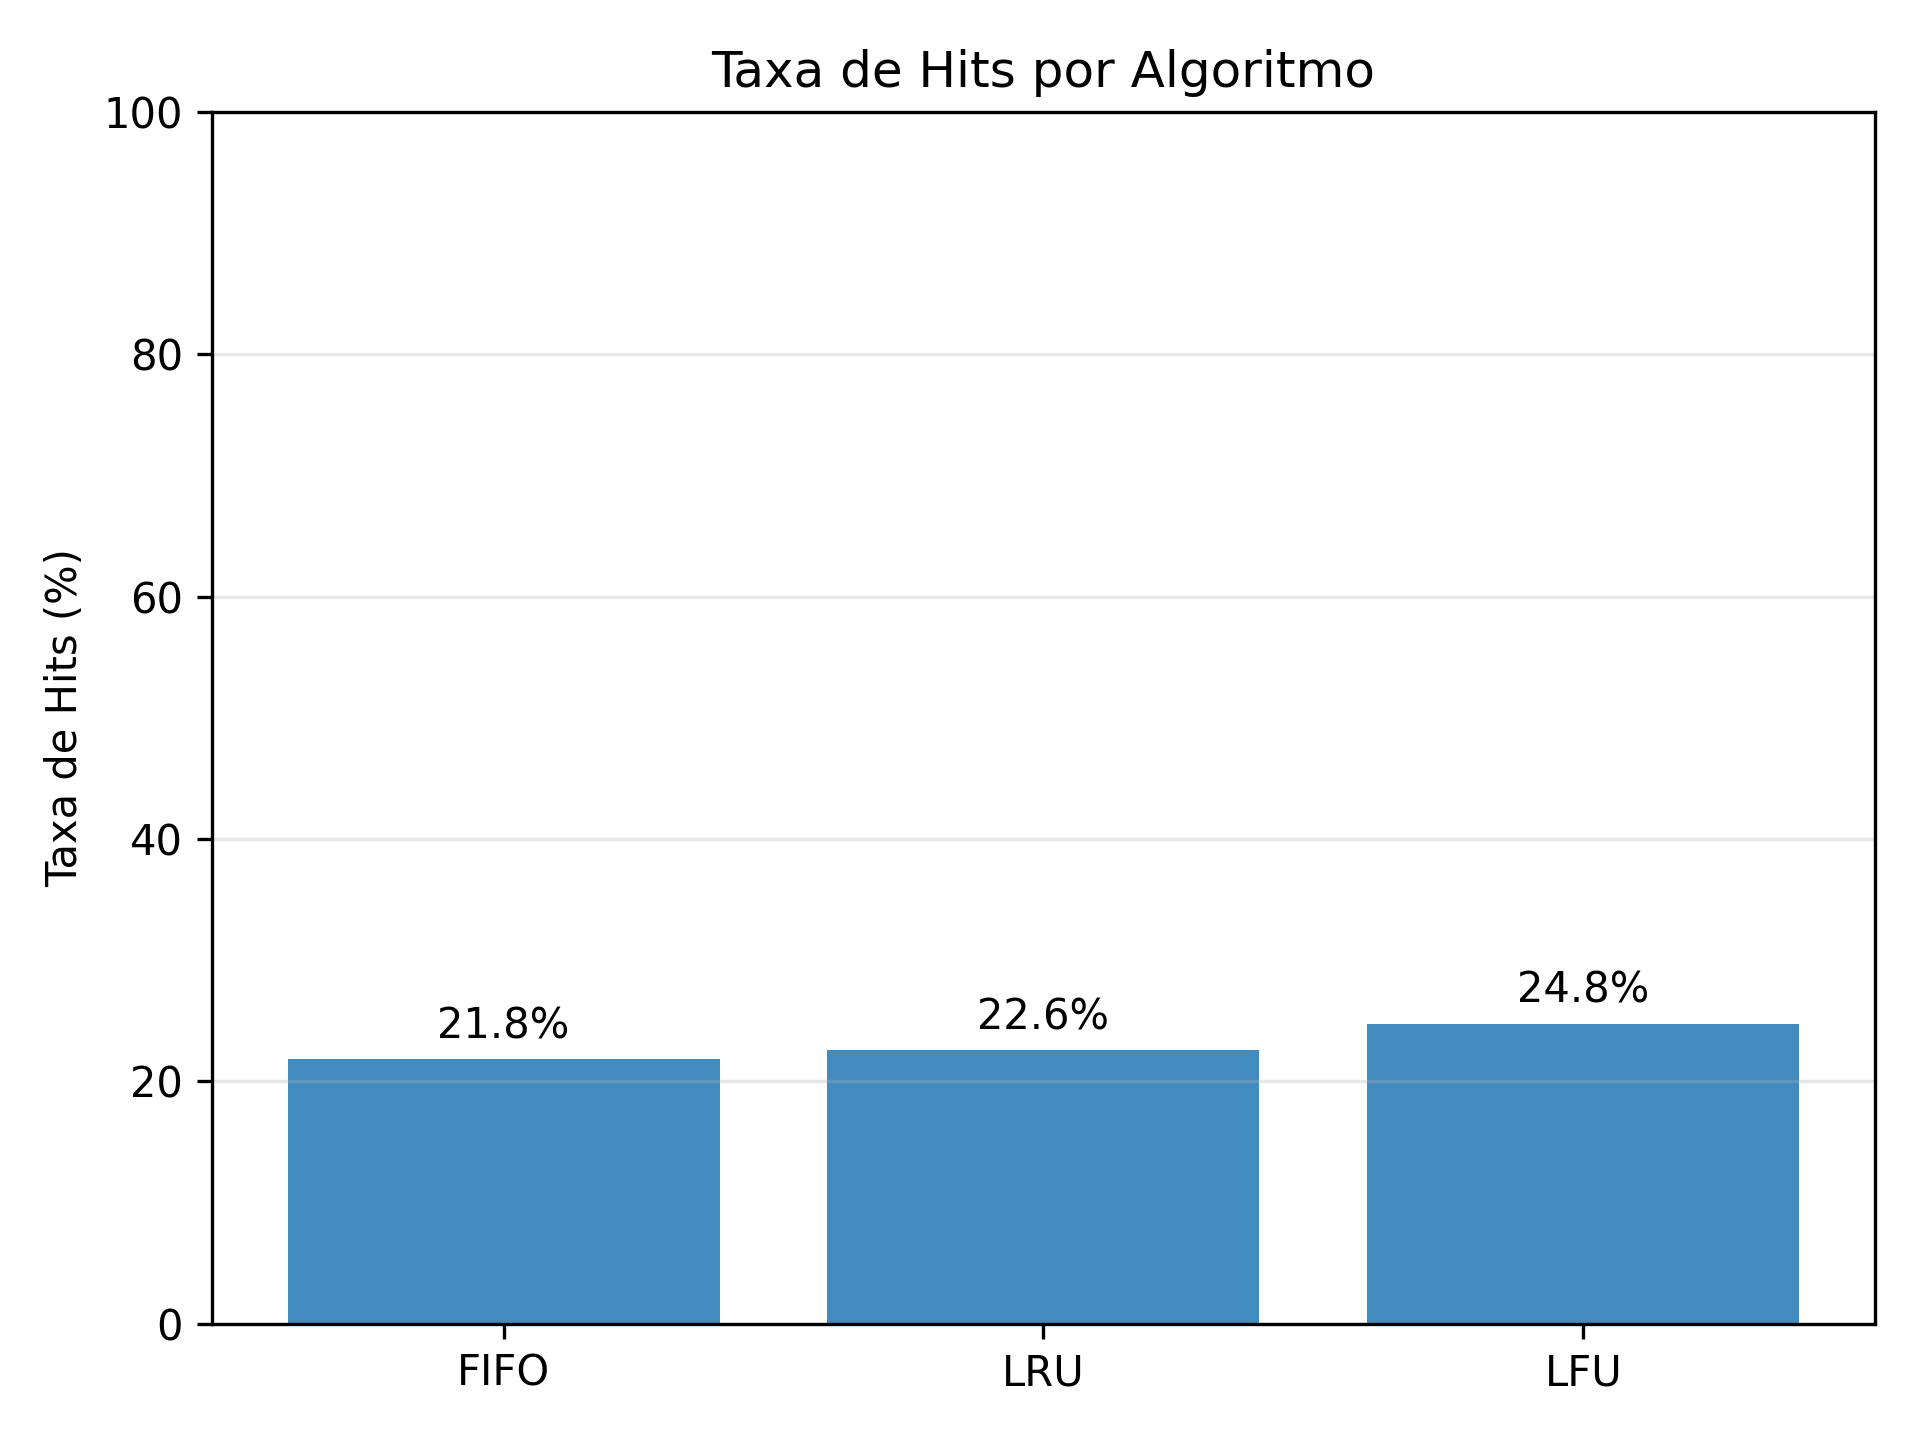
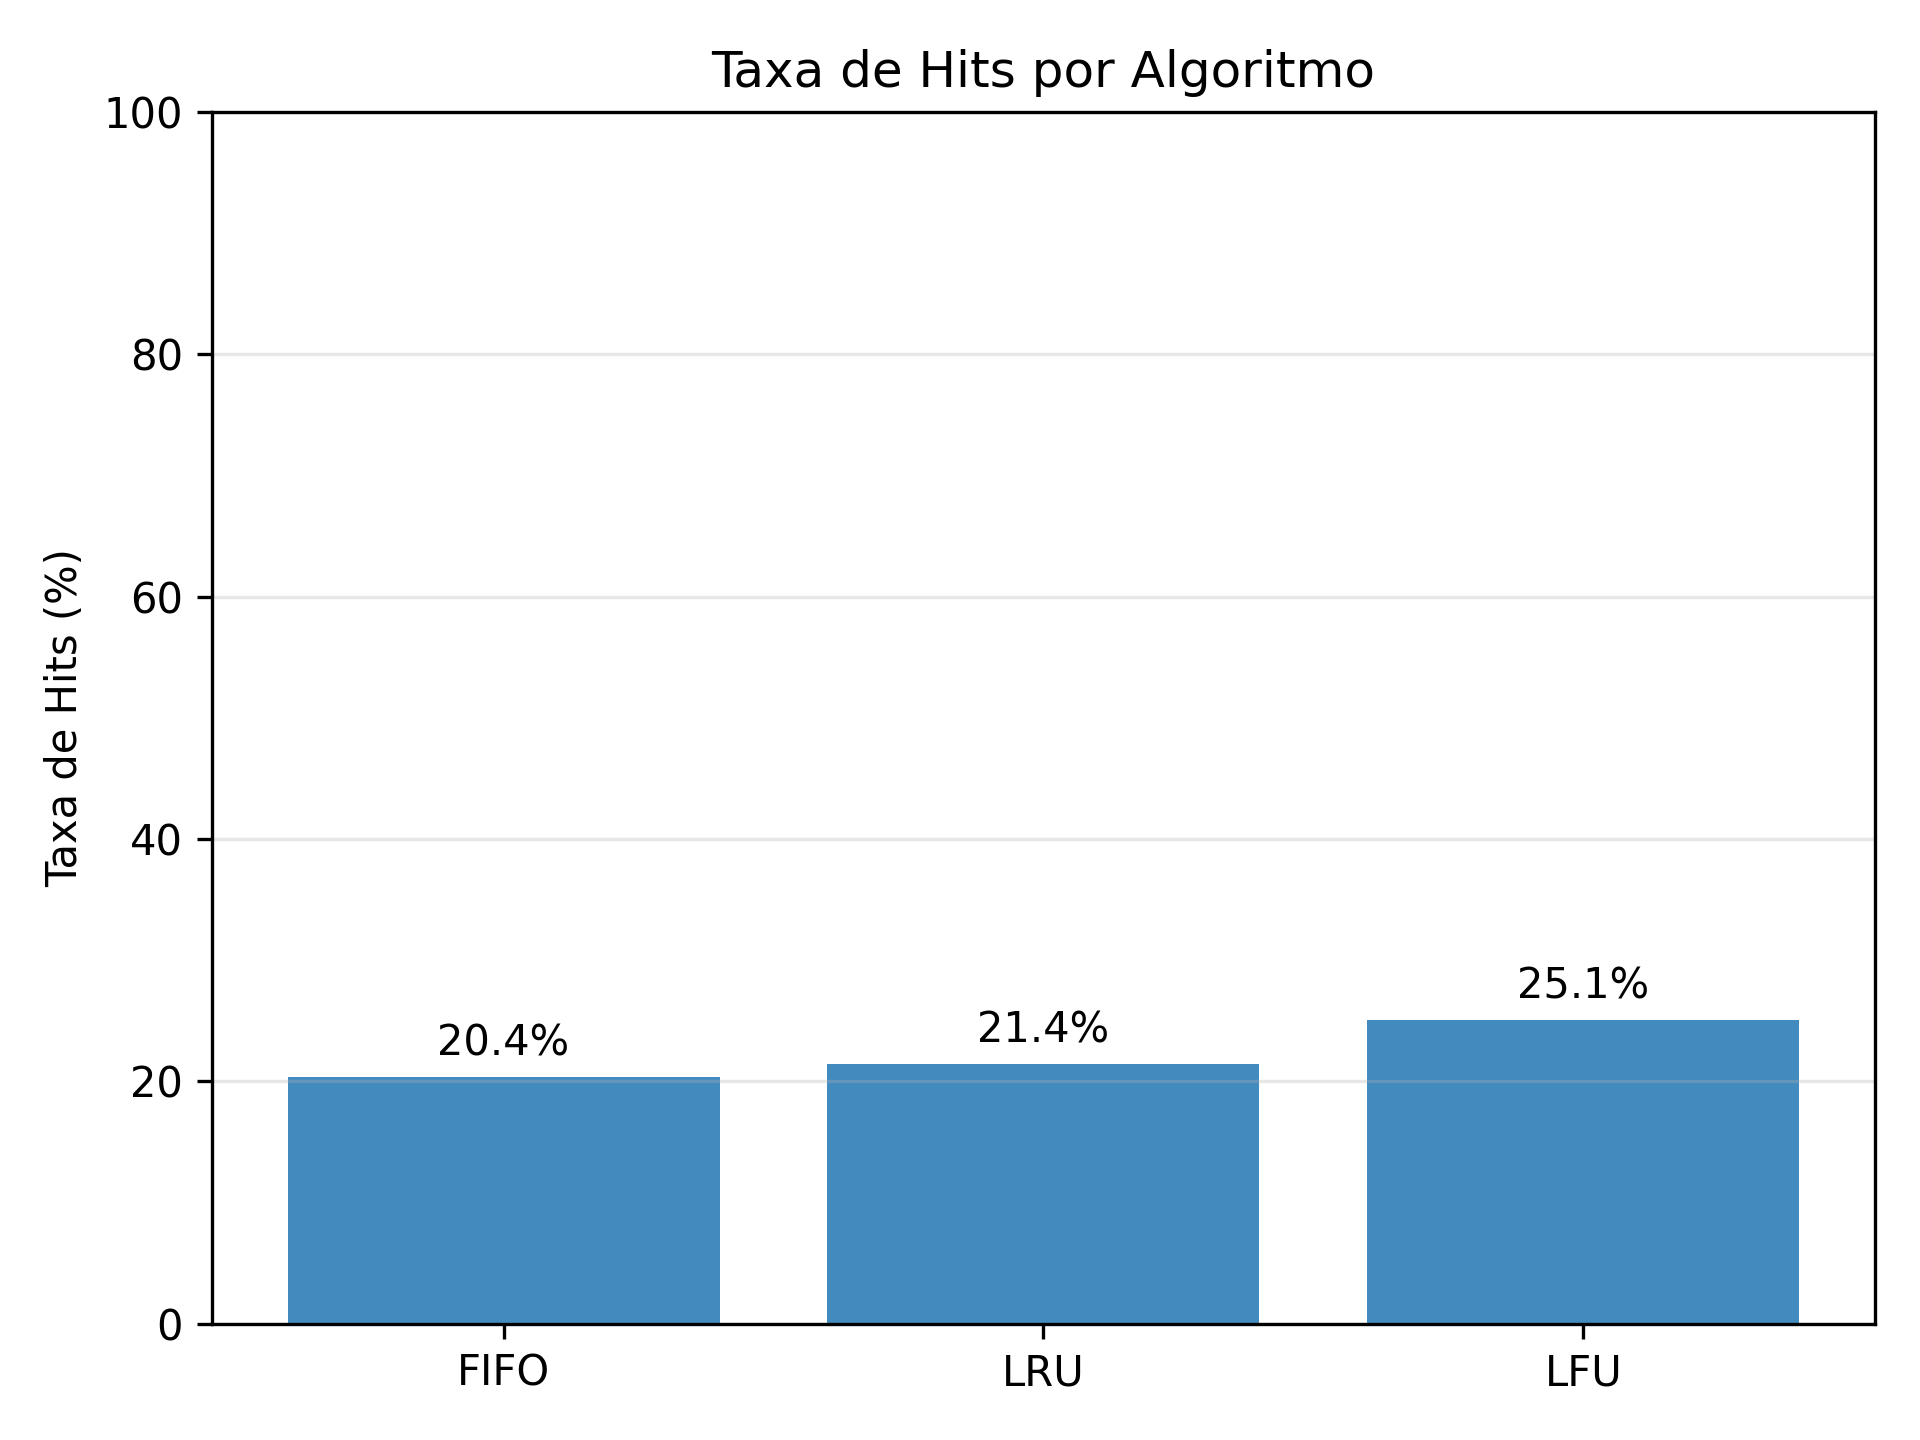
mudanças no simulador e graficos

Changed region(s): [[0.4375, 0.6875, 0.6562, 0.75], [0.1562, 0.6875, 0.375, 0.75], [0.7812, 0.6562, 0.875, 0.7188]]

diff --git a/Simulacao/Simulador.py b/Simulacao/Simulador.py
@@ -1,3 +1,4 @@
+import os
 import time
 import matplotlib.pyplot as plt
 import numpy as np
@@ -11,21 +12,30 @@ from Simulacao.Probabilidade import Probabilidade
 class Simulador:
     def __init__(self):
         self.carregador = CarregadorDeTexto("Textos/")
+        self.ids_existentes = {
+            int(fn[5:-4]) for fn in os.listdir("Textos")
+            if fn.startswith("texto") and fn.endswith(".txt") and fn[5:-4].isdigit()
+        }
+        print(f"Arquivos detectados: {sorted(self.ids_existentes)}")
     
     def executar(self):
+        print(f"Iniciando simulação com {len(self.ids_existentes)} textos disponíveis.")
         usuarios = Probabilidade.gerar_usuarios(3, 200)
         algoritmos = [("FIFO", FIFO), ("LRU",LRU), ("LFU",LFU)]
         resultados = []
 
         for nome, ClasseAlgoritimo in algoritmos:
+            print(f"\nSimulando com o algoritmo: {nome}")
             metrica_total = Metrica(ClasseAlgoritimo()) 
 
             for usuario in usuarios:
-                for tipo, solicitacoes in usuario["solicitacoes"].items():
+                for _, solicitacoes in usuario["solicitacoes"].items():
                     cache = ClasseAlgoritimo()
                     metrica_cenario = Metrica(cache)
 
                     for texto_id in solicitacoes:
+                        if texto_id not in self.ids_existentes:
+                            continue
                         inicio = time.time()
                         texto = cache.buscar_texto(texto_id)
 
@@ -45,20 +55,20 @@ class Simulador:
                     metrica_total.t_cache.extend(metrica_cenario.t_cache)
                     metrica_total.t_disco.extend(metrica_cenario.t_disco)
 
-                    for texto_id, t in metrica_cenario.misses_texto.items():
-                        metrica_total.misses_texto[texto_id] += t
-
             resultados.append((nome, metrica_total))
+            taxa = metrica_total.taxa_hit()
+            print(f"   {nome}: {metrica_total.hits} hits, {metrica_total.misses} misses, Taxa de Hits: {taxa:.2f}%")
 
         print("\nResultados:")
         melhor_nome, melhor_taxa = None, -1.0
         for nome, m in resultados:
-            total = m.hits + m.misses
-            taxa = (m.hits/ total * 100) if total > 0 else 0
-            print(f"{nome}: Hits={m.hits}, Misses={m.misses}, Taxa de Hits={taxa:.1f}%")
+            taxa = m.taxa_hit()
+            print(f"{nome}:")
+            print(f"Hits: {m.hits}, Misses: {m.misses}, Taxa de Hits: {taxa:.2f}%")
+            print(f"Tempo Médio Cache: {m.tempo_medio_cache():.4f}s, Tempo Médio Disco: {m.tempo_medio_disco():.4f}s, Tempo Médio Total: {m.tempo_medio_total():.4f}s")
             if taxa > melhor_taxa:
                 melhor_nome, melhor_taxa = nome, taxa
-        print(f"\nMelhor Algoritimo: {melhor_nome}")
+        print(f"\nMelhor Algoritimo: {melhor_nome} ({melhor_taxa: .2f}%)")
         
         self.gerar_graficos(resultados)
 
@@ -72,6 +82,8 @@ class Simulador:
         taxas = [m.taxa_hit() for _, m in resultados]
         tcache = [m.tempo_medio_cache() for _, m in resultados]
         tdisco = [m.tempo_medio_disco() for _, m in resultados]
+        tcache_ms= [t * 1000 for t in tcache]
+        tdisco_ms= [t * 1000 for t in tdisco]
         plt.figure()
         bars = plt.bar(algo_graf, taxas, alpha=0.85)
         plt.ylim(0, 100)
@@ -87,10 +99,10 @@ class Simulador:
         x= np.arange(len(algo_graf))
         w=0.38
         plt.figure()
-        plt.bar(x - w/2, tcache, width=w, label='Tempo Médio Cache (s)', alpha=0.85)
-        plt.bar(x + w/2, tdisco, width=w, label='Tempo Médio Disco (s)', alpha=0.85)
+        plt.bar(x - w/2, tcache_ms, width=w, label='Tempo Médio Cache (ms)', alpha=0.85)
+        plt.bar(x + w/2, tdisco_ms, width=w, label='Tempo Médio Disco (ms)', alpha=0.85)
         plt.xticks(x, algo_graf)
-        plt.ylabel('Tempo Médio (s)')
+        plt.ylabel('Tempo Médio (ms)')
         plt.title('Tempo Médio por Algoritmo (Cache vs Disco)')
         plt.legend()
         plt.grid(True, axis='y', alpha=0.3)
